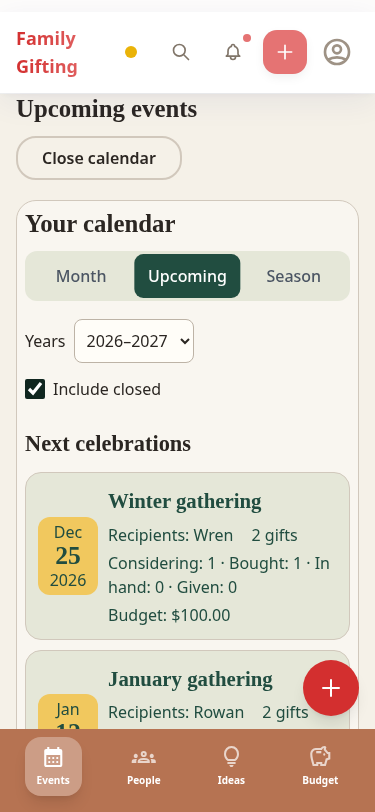
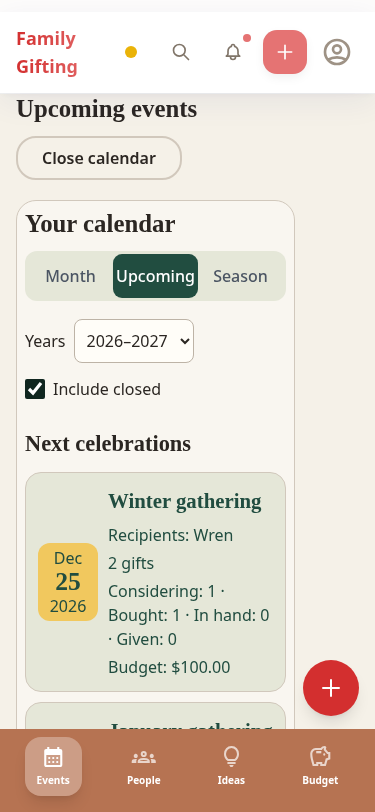
Keep mobile content clear of quick add button

diff --git a/apps/web/__tests__/e2e/calendar.spec.ts b/apps/web/__tests__/e2e/calendar.spec.ts
@@ -38,6 +38,24 @@ async function checkMobileText(page: Page) {
 test.use({ serviceWorkers: 'block' });
 test.beforeEach(async ({ page }) => { await setupCalendar(page); });
 
+test('mobile planner cards remain clear of the quick add button while scrolling', async ({ page }) => {
+  test.skip(page.viewportSize()!.width >= 640, 'Mobile layout only');
+  await page.goto('/dashboard');
+  await page.getByRole('button', { name: 'Calendar view' }).click();
+  const panel = page.locator('#calendar-panel');
+  await expect(panel.getByRole('tab', { name: 'Upcoming' })).toHaveAttribute('aria-selected', 'true');
+  const main = page.locator('main');
+  for (const fraction of [0, 0.5, 1]) {
+    await main.evaluate((el, f) => { el.style.scrollBehavior = 'auto'; el.scrollTop = (el.scrollHeight - el.clientHeight) * f; }, fraction);
+    const fab = (await page.getByRole('button', { name: 'Quick add idea' }).last().boundingBox())!;
+    const cards = await panel.getByRole('link', { name: /gathering/ }).all();
+    for (const card of cards) {
+      const box = await card.boundingBox();
+      if (box) expect(box.x + box.width <= fab.x || box.x >= fab.x + fab.width || box.y + box.height <= fab.y || box.y >= fab.y + fab.height).toBeTruthy();
+    }
+  }
+});
+
 test('home and planner views fit the viewport and expose usable controls', async ({ page }) => {
   await page.goto('/dashboard');
   await expect(page.getByRole('heading', { name: 'Winter gathering' })).toBeVisible();
@@ -163,7 +181,11 @@ test('capture planner evidence', async ({ page }) => {
     }));
     await writeFile(join(directory!, `${name}.json`), JSON.stringify(metrics, null, 2));
   };
-  if (page.viewportSize()!.width < 640) await capture('phone-upcoming');
+  if (page.viewportSize()!.width < 640) {
+    await capture('phone-upcoming');
+    await page.locator('main').evaluate(el => { el.scrollTop = el.scrollHeight; });
+    await page.screenshot({ path: join(directory!, 'phone-upcoming-end.png'), animations: 'disabled' });
+  }
   else {
     await capture('desktop-upcoming');
     await panel.getByRole('tab', { name: 'Season' }).click();

diff --git a/apps/web/components/quick-add/QuickAddButton.tsx b/apps/web/components/quick-add/QuickAddButton.tsx
@@ -38,7 +38,7 @@ export function QuickAddButton({ variant = 'fab' }: QuickAddButtonProps) {
       <>
         <button
           onClick={() => setIsOpen(true)}
-          className="fixed bottom-24 right-4 md:bottom-6 md:right-6 w-14 h-14 bg-primary-600 text-white rounded-full shadow-lg flex items-center justify-center hover:bg-primary-700 active:bg-primary-800 transition-colors z-40 focus-visible:outline-none focus-visible:ring-2 focus-visible:ring-primary-500 focus-visible:ring-offset-2"
+          className="fixed bottom-[calc(6rem+env(safe-area-inset-bottom))] right-4 md:bottom-6 md:right-6 w-14 h-14 bg-primary-600 text-white rounded-full shadow-lg flex items-center justify-center hover:bg-primary-700 active:bg-primary-800 transition-colors z-40 focus-visible:outline-none focus-visible:ring-2 focus-visible:ring-primary-500 focus-visible:ring-offset-2"
           aria-label="Quick add idea"
         >
           <PlusIcon className="w-6 h-6" />

diff --git a/apps/web/components/layout/AppLayout.tsx b/apps/web/components/layout/AppLayout.tsx
@@ -68,7 +68,7 @@ export function AppLayout({ children }: AppLayoutProps) {
           className="flex-1 min-h-0 overflow-y-auto scroll-smooth"
         >
           {/* Max-width container with fade-in animation */}
-          <div className="max-w-[1600px] mx-auto px-4 md:px-6 lg:px-8 py-6 pb-20 md:pb-8 fade-in">
+          <div className="max-w-[1600px] mx-auto pl-4 pr-20 md:px-6 lg:px-8 py-6 pb-[calc(10rem+env(safe-area-inset-bottom))] md:pb-8 fade-in">
             {children}
           </div>
         </main>

diff --git a/docs/release/evidence/2026-11/calendar-a/VISUAL.md b/docs/release/evidence/2026-11/calendar-a/VISUAL.md
@@ -12,7 +12,8 @@ Node: `node_01M7JFDEN7FHQPS4W2R13SPE1R`. Built with `pnpm build` and served on l
 | --- | --- |
 | [Desktop Upcoming](desktop-upcoming.png), 1600×1000 | Existing forest hero and sidebar retained. Toolbar sits directly above the planner. Month navigator and agenda form two clear columns; warm date badges, recipient/phase/budget text and separate Closed row read clearly. No overlapping text or horizontal clipping; restrained density and clear heading hierarchy. |
 | [Desktop Season](desktop-season.png), 1600×1000 | Scrolled to the planner. Autumn 2026 is collapsed with a Closed badge; the timeline spine leads into Winter 2026 and Winter 2027. Sage cards and forest text remain distinct. January continues below the viewport; no horizontal clipping or collision between labels and cards. |
-| [Phone Upcoming](phone-upcoming.png), 375×812 | Toolbar wraps; Close calendar remains visible. Filters stack vertically and the agenda has one column, with no miniature month. The first event is fully readable with clear contrast and 16px body text. The second event continues below the fixed navigation; the existing floating add button covers part of its right edge at this scroll position. Scrolling exposes that content. Bottom-clearance assertions verify the last link can scroll above navigation. |
+| [Phone Upcoming](phone-upcoming.png), 375×812 | The planner uses a narrower column beside the floating add button. Filters stack, the first event is readable, and the button does not cover either card. |
+| [Phone Upcoming, end](phone-upcoming-end.png), 375×812 | At the end of the scroll the second card, closed event and management link sit clear of the button and bottom navigation. |
 
 Phone document `scrollWidth = 375`, `innerWidth = 375`; inner main `scrollWidth = clientWidth = 375`. Desktop document width is 1600; main width is 1504, with no extra horizontal scroll. Per-capture [phone](phone-upcoming.json), [Upcoming](desktop-upcoming.json), and [Season](desktop-season.json) metrics record dimensions and controls; minimum measured target width/height is 44×44px.
 
